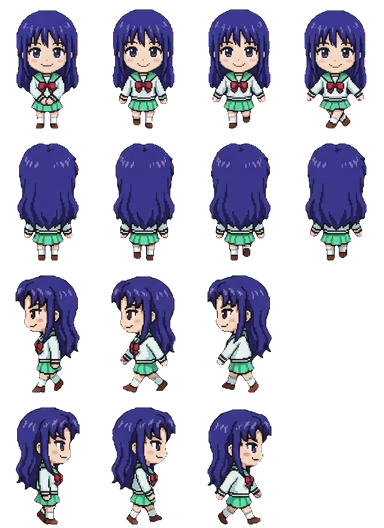
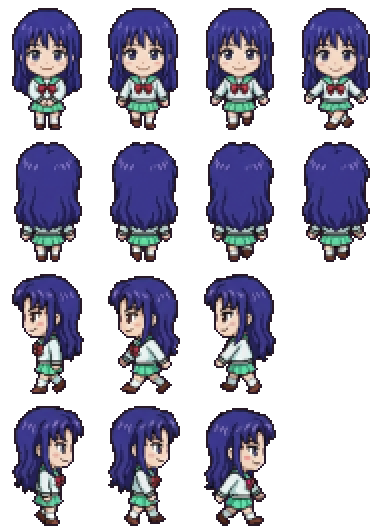
Restyle Kokomi to Saiki's chunky pixel look
Claude-Session: https://claude.ai/code/session_01KaPsBYLrtbRfMYNG2xeBCK

diff --git a/docs/app.js b/docs/app.js
@@ -75,7 +75,7 @@ function spr(cat, k, col, sc) {
   return `<div class="clip" style="width:${it[2] * sc}px;height:${it[3] * sc}px;POS"><img class="px" src="assets/decor/${cat}.png" alt="" style="width:${S.sw * sc}px;height:${S.sh * sc}px;margin-left:${-col * S.cw * sc}px;margin-top:${-i * S.ch * sc}px"></div>`;
 }
 const icon = (k, sz) => `<span class="itm" style="width:${sz}px;height:${sz}px"><img class="px" src="assets/ui/items.png" alt="" style="width:${IT.length * sz}px;height:${sz}px;margin-left:${-ITM[k].i * sz}px"></span>`;
-const face = (id, w) => { const s = w / 96; return `<img class="px" src="assets/ch/${id}.webp?v=24" alt="" style="position:absolute;width:${384 * s}px;height:${528 * s}px;left:${-(96 * s - w) / 2}px;top:0;max-width:none">`; };
+const face = (id, w) => { const s = w / 96; return `<img class="px" src="assets/ch/${id}.webp?v=25" alt="" style="position:absolute;width:${384 * s}px;height:${528 * s}px;left:${-(96 * s - w) / 2}px;top:0;max-width:none">`; };
 
 // ---------- 저장 ----------
 let fb = null, user = null, S = null, saveT = null;
@@ -143,7 +143,7 @@ function sleepHTML(id, r, dy) {
   const pos = r.a && r.a[0] === 'bed' ? 'left:3%;bottom:20%' : r.b && r.b[0] === 'bed' ? 'right:3%;bottom:20%' : 'left:calc(50% - 44px);bottom:6%';
   const s = 36 / 96;
   return `<div style="position:absolute;width:88px;height:56px;${pos};z-index:${dy ? 4 : 5};${dy ? `transform:translate(12px,${dy}px)` : ''}"><div style="position:absolute;inset:0;filter:brightness(.22)">
-    <div style="position:absolute;left:11px;top:1px;width:36px;height:50px;overflow:hidden;transform:rotate(-90deg)"><img class="px" src="assets/ch/${id}.webp?v=24" alt="" style="width:${384 * s}px;height:${528 * s}px;max-width:none;margin-top:${-132 * s}px"></div>
+    <div style="position:absolute;left:11px;top:1px;width:36px;height:50px;overflow:hidden;transform:rotate(-90deg)"><img class="px" src="assets/ch/${id}.webp?v=25" alt="" style="width:${384 * s}px;height:${528 * s}px;max-width:none;margin-top:${-132 * s}px"></div>
     <div style="position:absolute;left:19px;top:19px;width:67px;height:29px;border:2px solid var(--ink);border-radius:8px 6px 4px 4px;background:#8ccff5;background-image:repeating-linear-gradient(90deg,transparent 0 10px,rgba(255,255,255,.5) 10px 13px)"></div></div>
     ${dy ? '' : '<span class="emo" style="left:8px;top:-22px;color:#5b6bd6">Z z z</span>'}</div>`;
 }
@@ -153,8 +153,8 @@ function roomHTML(id, o, scale) {
     <div class="floor" style="background-color:${PAL[r.fc][1]};background-image:${tileUrl('floor', r.fl)}"></div>
     ${slot('deco', r.dc, 'left:6%;top:6%')}${slot('furn', r.a, 'left:3%;bottom:20%')}${slot('furn', r.b, 'right:3%;bottom:20%')}${slot('prop', r.pr, 'left:28%;bottom:4%;z-index:2')}
     ${id && o.sleeping && g ? sleepHTML(g, r, -16) : ''}${id && o.sleeping ? sleepHTML(id, r) : ''}${id && o.job ? `<div style="position:absolute;left:50%;top:38%;transform:translateX(-50%);z-index:5;background:#fff;border:3px solid var(--ink);border-radius:10px;padding:6px 10px;font-size:11px;text-align:center;line-height:1.5"><img src="assets/ui/ic_job.png" alt="" style="width:18px;vertical-align:-4px"> ${WORK[id] ? WORK[id][1] : esc(JOB_NAME[id]) + ' 알바 중'}${g ? `<br><small>${esc(nameOf(g))}도 같이</small>` : ''}<br><b id="jobleft">${timeLeft(o.job.until)}</b></div>` : ''}
-    ${id ? `<div class="shadow" id="shd" ${o.sleeping || o.job ? 'style="display:none"' : ''}></div><div class="man" id="man" ${o.sleeping || o.job ? 'style="display:none"' : ''}><img class="px" src="assets/ch/${id}.webp?v=24" alt="${esc(nameOf(id))}"></div><span class="emo" id="emo" hidden></span><span class="mumble" id="mum" hidden></span>` : ''}
-    ${g ? `<div class="shadow" id="gshd" ${hideG}></div><div class="man" id="gman" ${hideG}><img class="px" src="assets/ch/${g}.webp?v=24" alt="${esc(nameOf(g))}"></div><span class="emo" id="gemo" hidden></span><span class="mumble gmum" id="gmum" hidden></span>` : ''}
+    ${id ? `<div class="shadow" id="shd" ${o.sleeping || o.job ? 'style="display:none"' : ''}></div><div class="man" id="man" ${o.sleeping || o.job ? 'style="display:none"' : ''}><img class="px" src="assets/ch/${id}.webp?v=25" alt="${esc(nameOf(id))}"></div><span class="emo" id="emo" hidden></span><span class="mumble" id="mum" hidden></span>` : ''}
+    ${g ? `<div class="shadow" id="gshd" ${hideG}></div><div class="man" id="gman" ${hideG}><img class="px" src="assets/ch/${g}.webp?v=25" alt="${esc(nameOf(g))}"></div><span class="emo" id="gemo" hidden></span><span class="mumble gmum" id="gmum" hidden></span>` : ''}
     ${o.sleeping ? `<div class="night"></div><div class="sleepleft">쿨쿨 · 일어나기까지 <b id="sleepleft">${timeLeft(wakeAt(o)).replace(' 남음', '')}</b></div>` : ''}
   </div>`;
 }
@@ -167,7 +167,7 @@ function meterHTML(o) {
 const ic = (act, img, label, pressed) => `<button class="ic" data-act="${act}" ${pressed ? 'aria-pressed="true"' : ''}><img src="assets/ui/ic_${img}.png?v=2" alt="">${label}</button>`;
 
 let dropStyle = null; const cheat = {};
-const APP_V = 96, COUPONS = { NINOGUYA: 3000 };
+const APP_V = 97, COUPONS = { NINOGUYA: 3000 };
 // 쿠폰 입력 정리: 한글 자판 상태로 친 글자(ㅜㅑㅜㅐ혀ㅛㅁ)도 영어 자판 글자로 바꾸고, 대소문자·띄어쓰기·마침표는 무시해요
 const KEY = { ㄱ: 'r', ㄲ: 'R', ㄴ: 's', ㄷ: 'e', ㄸ: 'E', ㄹ: 'f', ㅁ: 'a', ㅂ: 'q', ㅃ: 'Q', ㅅ: 't', ㅆ: 'T', ㅇ: 'd', ㅈ: 'w', ㅉ: 'W', ㅊ: 'c', ㅋ: 'z', ㅌ: 'x', ㅍ: 'v', ㅎ: 'g',
   ㅏ: 'k', ㅐ: 'o', ㅑ: 'i', ㅒ: 'O', ㅓ: 'j', ㅔ: 'p', ㅕ: 'u', ㅖ: 'P', ㅗ: 'h', ㅘ: 'hk', ㅙ: 'ho', ㅚ: 'hl', ㅛ: 'y', ㅜ: 'n', ㅝ: 'nj', ㅞ: 'np', ㅟ: 'nl', ㅠ: 'b', ㅡ: 'm', ㅢ: 'ml', ㅣ: 'l',
@@ -407,7 +407,7 @@ function startTrip(k) {
   if (tg) lines[1] = `${nameOf(tg)}: ${withHim(sub(pick(GLX(tg).trip), o, c.n), tg)}`;
   const n = (FR[id] || [4, 4, 4, 4])[3], el = document.createElement('div'); el.className = 'tripview';
   el.innerHTML = `<div class="tsay"> </div><div class="tstage" style="background-image:url(assets/travel/${k}.png?v=2)"><div class="tplace">${esc(c.n)}</div>
-    <div class="twalker"><img class="px" src="assets/ch/${id}.webp?v=24" alt=""></div>${tg ? `<div class="twalker tgirl"><img class="px" src="assets/ch/${tg}.webp?v=24" alt=""></div>` : ''}<span class="emo tjoy">♪</span></div>
+    <div class="twalker"><img class="px" src="assets/ch/${id}.webp?v=25" alt=""></div>${tg ? `<div class="twalker tgirl"><img class="px" src="assets/ch/${tg}.webp?v=25" alt=""></div>` : ''}<span class="emo tjoy">♪</span></div>
     <div class="tbar"><i></i></div><button class="btn white tskip" data-tskip="1">바로 돌아오기</button>`;
   document.body.appendChild(el);
   const gimg = el.querySelector('.tgirl img'), gn = tg ? (FR[tg] || [4, 4, 4, 4])[3] : 1;
@@ -636,7 +636,7 @@ setInterval(() => { if (S && user) { tickTime(); save(); } }, 60000);
     if (nv > APP_V && !location.search.includes('u=' + nv)) { location.replace(location.pathname + '?u=' + nv); return; }
   } catch { }
   app.innerHTML = '<div class="start"><div class="egg"><div class="scr"></div></div><div class="note">불러오는 중....</div></div>';
-  const [c, t, f, it, mu, ct, tv, gl, sts] = await Promise.all(['data/chars.json', 'data/talk.json', 'data/frames.json', 'data/items.json', 'data/mumble.json', 'data/countries.json', 'data/travel.json', 'data/girls.json', 'data/sets.json'].map(u => fetch(u + '?v=96').then(r => r.ok ? r.json() : {})));
+  const [c, t, f, it, mu, ct, tv, gl, sts] = await Promise.all(['data/chars.json', 'data/talk.json', 'data/frames.json', 'data/items.json', 'data/mumble.json', 'data/countries.json', 'data/travel.json', 'data/girls.json', 'data/sets.json'].map(u => fetch(u + '?v=97').then(r => r.ok ? r.json() : {})));
   CH = c; CHM = Object.fromEntries(c.map(x => [x.id, x])); TALK = t; FR = f; IT = it; ITM = Object.fromEntries(it.map(x => [x.k, x])); MUM = mu; CTRY = ct; TRV = tv; GL = Array.isArray(gl) ? gl : []; SETS = Array.isArray(sts) ? sts : []; GLM = Object.fromEntries(GL.map(x => [x.id, x]));
   try { await initFirebase(); } catch (e) { console.warn('Firebase 연결 실패, 기기 저장으로', e); fb = null; }
   if (fb) {

diff --git a/docs/index.html b/docs/index.html
@@ -18,6 +18,6 @@
 <main id="app" aria-live="polite"></main>
 <div id="toast" role="status" hidden></div>
 <script src="firebase-config.js?v=3"></script>
-<script type="module" src="app.js?v=96"></script>
+<script type="module" src="app.js?v=97"></script>
 </body>
 </html>

diff --git a/tk_restyle.py b/tk_restyle.py
@@ -1,10 +1,12 @@
-# 메로코를 이즈미 그림체(큰 머리, 짧은 몸, 굵은 픽셀, 두꺼운 외곽선)에 맞춰 다시 만들어요. 사용: python3 tk_restyle_meroko.py 1.18 0.78 2
+# 굵은 픽셀 그림체(큰 머리, 짧은 몸, 두꺼운 외곽선)에 맞춰 다시 만들어요. 사용: python3 tk_restyle.py <id> <머리배율> <몸배율> <픽셀> <left칸> <right칸> [mirror]
 import sys; sys.path.insert(0,'/home/user/boifriends')
 import numpy as np, tk_magenta as M, tk_chars as T, tk_whiten as W
 from PIL import Image
 from scipy import ndimage
 # 메로코 원본 칸을 '머리 크게, 몸 짧게' 다시 짜고, 이즈미처럼 굵은 픽셀 + 두꺼운 외곽선으로
-HEAD=float(sys.argv[1]); BODY=float(sys.argv[2]); PIX=int(sys.argv[3])
+CID=sys.argv[1]; HEAD=float(sys.argv[2]); BODY=float(sys.argv[3]); PIX=int(sys.argv[4])
+P=lambda t:[tuple(map(int,x.split(','))) for x in t.split(';')]
+LP=P(sys.argv[5]); RP=P(sys.argv[6]); MIR=len(sys.argv)>7
 def chin(f):
     # 목(가장 좁은 곳)을 머리/몸 경계로: 위 35~60% 구간에서 너비가 가장 좁은 줄
     # 피부(얼굴)가 끝나는 줄 = 턱. 머리카락·날개 때문에 너비로는 못 찾아서 피부색으로
@@ -23,14 +25,14 @@ orig=M.cells
 def cells2(path,cols=5,rows=4):
     return [[reshape(f) for f in r] for r in orig(path,cols,rows)]
 M.cells=cells2
-R_=[(2,1),(2,2),(2,3),(2,4)]
-M.build('meroko','chars_src/meroko.png',pick={'down':[(0,k) for k in range(4)],'up':[(1,k) for k in range(4)],'left':R_,'right':R_})
-fw,fh=96,132; a=np.array(Image.open('docs/assets/ch/meroko.webp').convert('RGBA'))
-for k in range(4): a[2*fh:3*fh,k*fw:(k+1)*fw]=a[3*fh:4*fh,k*fw:(k+1)*fw][:, ::-1]
+M.build(CID,f'chars_src/{CID}.png',pick={'down':[(0,k) for k in range(4)],'up':[(1,k) for k in range(4)],'left':LP,'right':RP})
+fw,fh=96,132; a=np.array(Image.open(f'docs/assets/ch/{CID}.webp').convert('RGBA'))
+if MIR:
+    for k in range(len(RP)): a[2*fh:3*fh,k*fw:(k+1)*fw]=a[3*fh:4*fh,k*fw:(k+1)*fw][:, ::-1]
 # 굵은 픽셀: 1/PIX로 줄였다가 NEAREST로 키우기 + 두꺼운 외곽선
 im=Image.fromarray(a); sm=im.resize((im.width//PIX,im.height//PIX),Image.BOX); s=np.array(sm)
 al=s[...,3]>110; s[...,3]=np.where(al,255,0)
 edge=ndimage.binary_dilation(al)&~al
 s[edge]=[40,26,40,255]
 big=Image.fromarray(s).resize((im.width,im.height),Image.NEAREST)
-big.save('docs/assets/ch/meroko.webp','WEBP',lossless=True)
+big.save(f'docs/assets/ch/{CID}.webp','WEBP',lossless=True)
